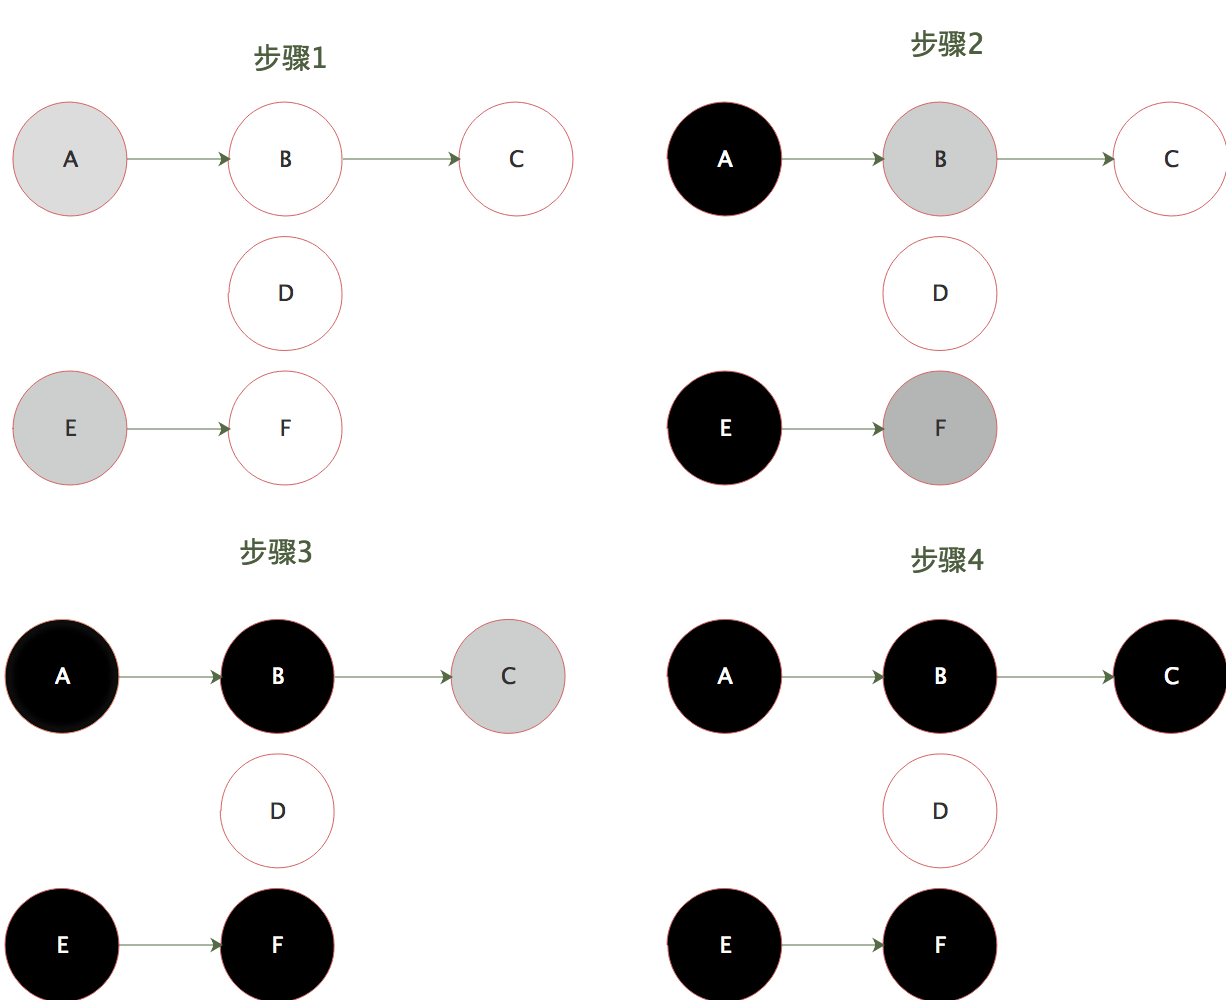
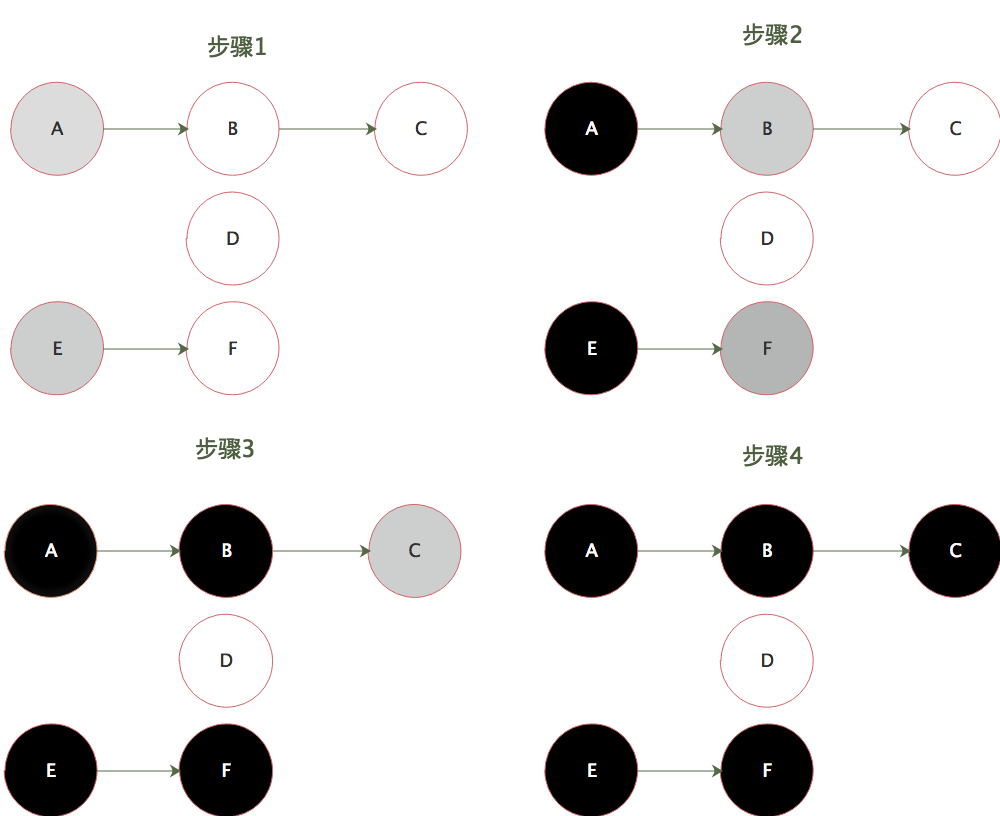
gc

diff --git a/gc/gc.md b/gc/gc.md
@@ -97,7 +97,7 @@ go中使用的是三色标记法
 
 在垃圾收集器开始工作时，程序中不存在任何的黑色对象，垃圾收集的根对象会被标记成灰色，垃圾收集器只会从灰色对象集合中取出对象开始扫描，当灰色集合中不存在任何对象时，标记阶段就会结束。  
 
-<img src="/img/gc_1.png" width = "613" height = "500" alt="gc" align="center" />
+<img src="/img/gc_1.png" width = "500" height = "408" alt="gc" align="center" />
 
 三色标记垃圾收集器的工作原理很简单，我们可以将其归纳成以下几个步骤：  
 
@@ -158,7 +158,7 @@ writePointer(slot, ptr):
 
 比如上面黑色A指向白色D，A在引用D的时候直接将D标记为灰色就可以了。   
 
-<img src="/img/gc_3_1.png" width = "444" height = "500" alt="gc" align="center" />
+<img src="/img/gc_3.png" width = "500" height = "563" alt="gc" align="center" />
 
 1、垃圾回收器将A对象标记为黑色，然后A对象指向的B对象标记为灰色；  
 2、用户程序修改A对象的指针，将原本指向B对象的指针，指向了C对象，触发写屏障，根据强三色不变式，黑色不能直接指向白色，更改C对象的颜色为灰色；  
@@ -182,7 +182,7 @@ writePointer(slot, ptr):
 
 删除屏障也是拦截写操作的，但是是通过保护灰色对象到白色对象的路径不会断来实现的。也就是若三色不变式。     
 
-<img src="/img/gc_4.png" width = "437" height = "500" alt="gc" align="center" />
+<img src="/img/gc_4.png" width = "500" height = "573" alt="gc" align="center" />
 
 1、首先将A对象标记成黑色，然后A对象指向的B对象标记为灰色；  
 2、程序将A对象指向C对象，触发删除写屏障，根据若三色不变式，因为C对象有灰色对象B的指向，所以不用做改变；  
